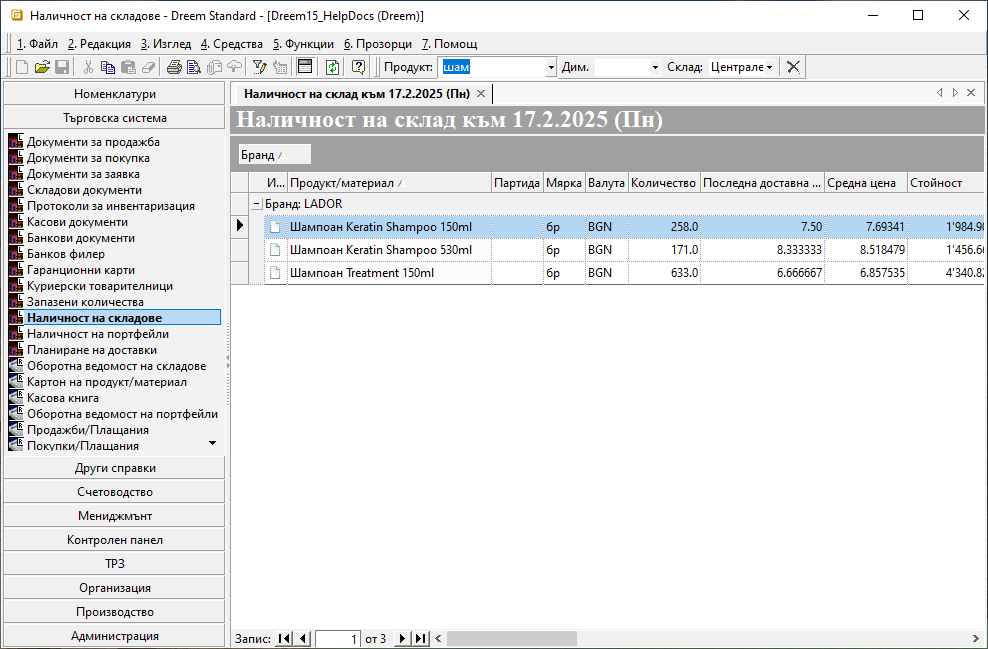
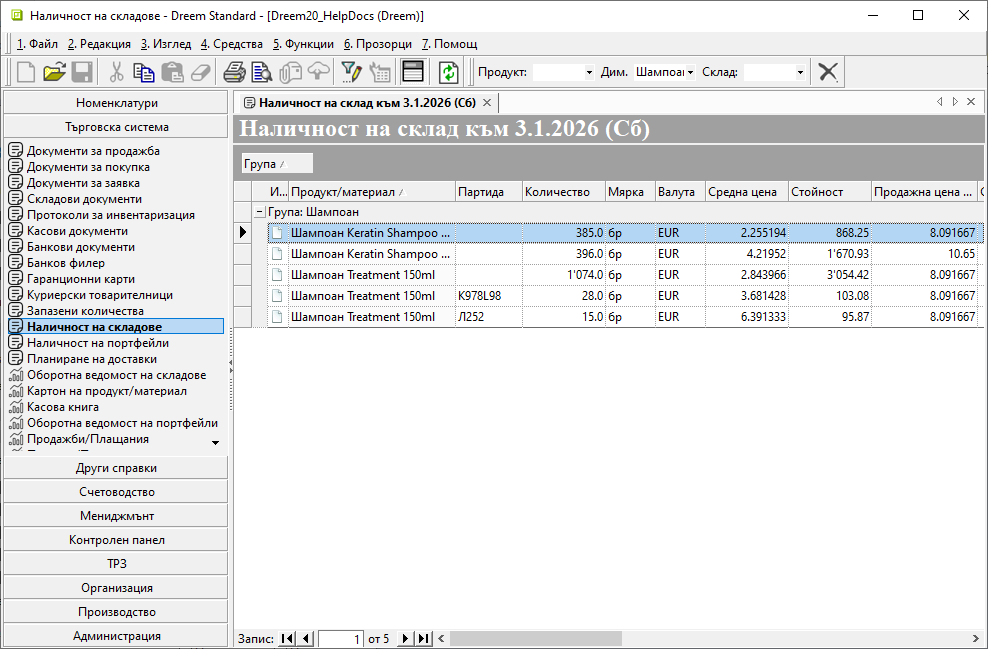
Нови изображения (EUR) - Наличност на склад, Наличност на портфейли

diff --git a/guide/erp/003-rep/001-trade/002-wallets-availability.md b/guide/erp/003-rep/001-trade/002-wallets-availability.md
@@ -6,10 +6,11 @@
 
 Справката е достъпна от **Търговска система » Наличност на портфейли**. Използва се за бърза проверка на текущите наличности на парични средства в отделните каси и банкови сметки.  
 
-Справката е с табличен вид, като има възможност за разместване, скриване, извеждане и сортиране на колони. 
+Справката е в табличен вид. Има възможност за разместване, скриване, извеждане и сортиране на колони. 
 Чрез поле **Портфейл** от бързия филтър може да се приложи филтър за определена каса или банкова сметка.  
 
-Текущата наличност в лева на всеки портфейл е на отделен ред в колона **Стойност**.  
+Текущата наличност в евро на всеки портфейл е на отделен ред в колона **Стойност**.  
+
 За портфейлите в чуждестранна валута колона **Количество** дава информация за валутната наличност, а колона **Ср. цена** - средна стойност на валутния курс.   
 
 ![](902-wallets-availability.png){ class=align-center w=15cm }
